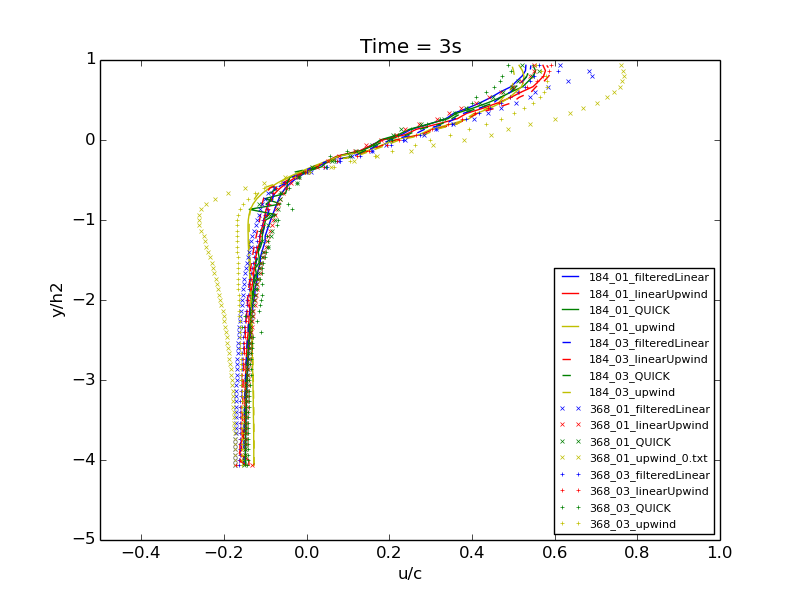
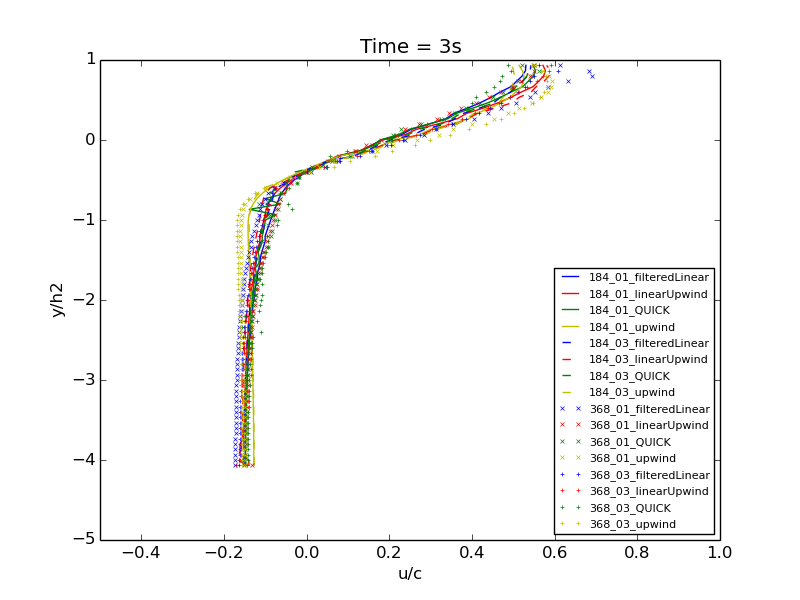
Updated files.

diff --git a/MaxVelocity/plotterMaxVelocity_3.py b/MaxVelocity/plotterMaxVelocity_3.py
@@ -16,7 +16,7 @@ print c_0
 print c
 names = ['184_01_filteredLinear_3.txt','184_01_linearUpwind_3.txt','184_01_QUICK_3.txt',
 	 '184_01_upwind_3.txt','184_03_filteredLinear_3.txt','184_03_linearUpwind_3.txt','184_03_QUICK_3.txt',
-	 '184_03_upwind_3.txt','368_01_filteredLinear_3.txt','368_01_linearUpwind_3.txt','368_01_QUICK_3.txt','368_01_upwind_0.txt','368_03_filteredLinear_3.txt','368_03_linearUpwind_3.txt','368_03_QUICK_3.txt','368_03_upwind_3.txt']
+	 '184_03_upwind_3.txt','368_01_filteredLinear_3.txt','368_01_linearUpwind_3.txt','368_01_QUICK_3.txt','368_01_upwind_3.txt','368_03_filteredLinear_3.txt','368_03_linearUpwind_3.txt','368_03_QUICK_3.txt','368_03_upwind_3.txt']
 styles = ['b-','r-','g-','y-','b--','r--','g--','y--','bx','rx','gx','yx','b+','r+','g+','y+']
 y = np.linspace(-0.61,0.14,76)
 
